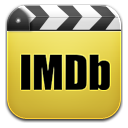
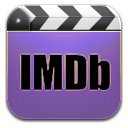
Replace imdb colors; Adjust other colors

diff --git a/app/assets/stylesheets/pages.scss b/app/assets/stylesheets/pages.scss
@@ -18,7 +18,7 @@ body {
 	color: white;
 	margin: 0;
 	background-color: $bg-color3;
-	padding-bottom: 110px;
+	padding-bottom: 95px;
 }
 
 a {
@@ -54,9 +54,9 @@ iframe {
 	}
 	.titleBannerImg {
 		text-align: center;
-		width: 40%;
+		width: 50%;
 		padding-bottom: 2%;
-		padding-top: 2%;
+		padding-top: 3%;
 		margin: -2%;
 	}
 	.titleBanner .titleDescription {
@@ -99,7 +99,7 @@ iframe {
 	position: fixed;
     bottom: 0;
     width: 100%;
-    min-height: 100px;
+    min-height: 80px;
     background-color: $bg-color1;
 }
 	.site-credit {
@@ -111,7 +111,7 @@ iframe {
 		color: $bg-color2;
 		font-weight: 200;
 		letter-spacing: 0.3rem;
-		font-size: 0.8rem;
+		font-size: 0.7rem;
 	}
 	.site-credit a:hover {
 		font-style: italic;
@@ -119,7 +119,7 @@ iframe {
 
 .pagedivider1,
 .pagedivider2 {
-	height: 10px;
+	height: 8px;
 	background-color: white;
 }
 
@@ -144,8 +144,8 @@ iframe {
 	.tooltip {
 	  display: none;
 	  position: absolute;
-	  width: 80px;
-	  height: 80px;
+	  width: 75px;
+	  height: 75px;
 	  border-radius: 15px 50px;
 	  background-image: url('/images/sierra-img.jpg');
 	  background-size: cover;
@@ -194,10 +194,13 @@ iframe {
 	}
 	.lisaDrawing {
 		width: 50%;
-		background-color: white;
+		background-color: #f4f5ff;
 		min-width: 300px;
 		text-align: center;
-		box-shadow: 0px 30px 40px rgba(0,0,0,.1);
+		border-radius: 50px;
+		-moz-box-shadow: 0 0 10px #fff;
+        -webkit-box-shadow: 0 0 10px #fff;
+        box-shadow: 0px 0px 10px #fff;
 	}
 
 
@@ -436,14 +439,14 @@ iframe {
 			width: 100%;
 			text-align: center;
 			position: initial;
-			margin: 1%;
+			padding: 1%;
 		}
 		.nav p {
 			display: inline;
 			font-size: 1.2rem;
 			word-spacing: 2rem;
-			margin-right: 2%;
-			margin-left: 2%
+			padding-right: 2%;
+			padding-left: 2%
 		}
 		.pageDiv {
 			float: none;
@@ -484,6 +487,6 @@ iframe {
 //mobile 
 @media handheld, screen and (max-width: 500px) {
 		.nav p {
-			font-size: 0.9rem;
+			font-size: 1rem;
 		}
 }
